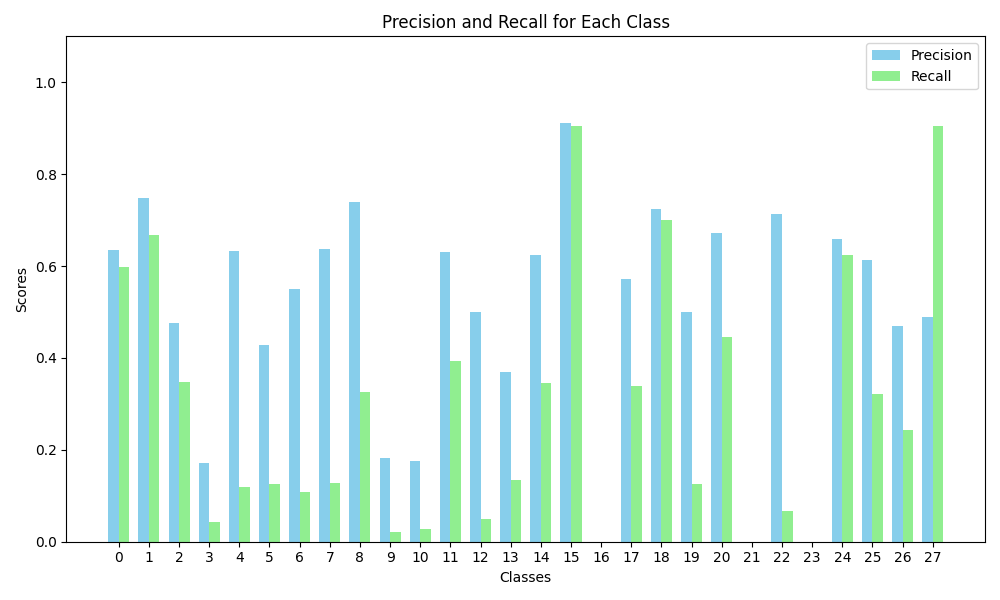
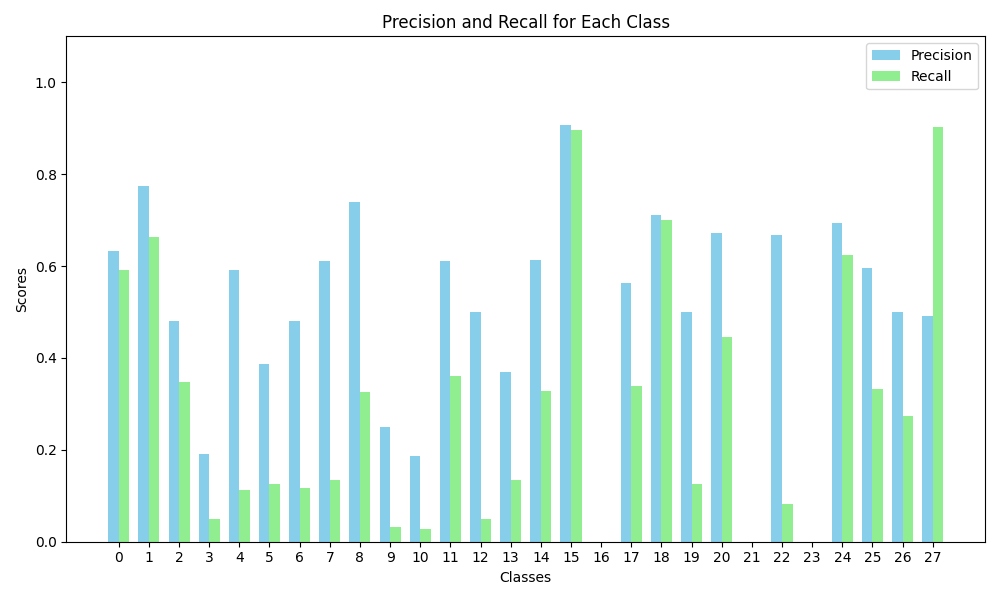
xgboost added

diff --git a/src/Baseline_model/XGBOOST.py b/src/Baseline_model/XGBOOST.py
@@ -1,0 +1,81 @@
+import re
+from sklearn.feature_extraction.text import CountVectorizer, TfidfVectorizer
+from xgboost import XGBClassifier
+from sklearn.metrics import classification_report
+
+
+def clean_text(text):
+    """
+    Clean the input text by applying several preprocessing steps.
+    """
+    # Lowercase
+    text = text.lower()
+    # Remove non-emotional punctuation (keep !, ?)
+    text = re.sub(r"[^\w\s!?':;.,]", '', text)
+    return text
+
+def preprocess_data(df_train, df_val, df_test, text_column="text", label_column="labels", vectorizer_type="tfidf"):
+    """
+    Preprocess text data using a vectorizer (CountVectorizer or TfidfVectorizer).
+    """
+    # Apply text cleaning to each dataset
+    df_train[text_column] = df_train[text_column].apply(clean_text)
+    df_val[text_column] = df_val[text_column].apply(clean_text)
+    df_test[text_column] = df_test[text_column].apply(clean_text)
+
+    # Initialize the vectorizer
+    if vectorizer_type == "count":
+        vectorizer = CountVectorizer(stop_words="english", max_features=700, min_df=4)
+    elif vectorizer_type == "tfidf":
+        vectorizer = TfidfVectorizer(stop_words="english")
+    else:
+        raise ValueError("Invalid vectorizer type. Choose 'count' or 'tfidf'.")
+
+    # Fit on the training text data and transform the splits
+    X_train = vectorizer.fit_transform(df_train[text_column])  # Learn vocabulary and transform train
+    X_val = vectorizer.transform(df_val[text_column])          # Transform validation data
+    X_test = vectorizer.transform(df_test[text_column])        # Transform test data
+
+    # Convert labels to a simple format (if needed)
+    y_train = df_train[label_column].apply(lambda x: x[0])  # Single label per row
+    y_val = df_val[label_column].apply(lambda x: x[0])
+    y_test = df_test[label_column].apply(lambda x: x[0])
+
+    return X_train, X_val, X_test, y_train, y_val, y_test, vectorizer
+
+# Train XGBoost Model
+def train_xgboost(X_train, y_train, X_val, y_val):
+    """
+    Train an XGBoost classifier and evaluate it on validation data.
+    """
+    model = XGBClassifier(use_label_encoder=False, eval_metric="mlogloss", random_state=42)
+    model.fit(X_train, y_train)
+
+    # Predict on validation set
+    y_val_pred = model.predict(X_val)
+
+    print("Validation Classification Report:")
+    print(classification_report(y_val, y_val_pred))
+
+    return model
+
+# Example Workflow
+def run_xgboost_pipeline(df_train, df_val, df_test):
+    """
+    Complete pipeline for training and evaluating an XGBoost model.
+    """
+    # Preprocess data using TF-IDF
+    X_train, X_val, X_test, y_train, y_val, y_test, vectorizer = preprocess_data(
+        df_train, df_val, df_test, text_column="text", label_column="labels", vectorizer_type="tfidf"
+    )
+
+    # Train and evaluate XGBoost
+    model = train_xgboost(X_train, y_train, X_val, y_val)
+
+    # Predict on test set
+    y_test_pred = model.predict(X_test)
+
+    print("Test Classification Report:")
+    print(classification_report(y_test, y_test_pred))
+
+    return model, vectorizer

diff --git a/src/Baseline_model/PrepareDatasetBM.py b/src/Baseline_model/PrepareDatasetBM.py
@@ -1,0 +1,43 @@
+import pandas as pd
+import matplotlib.pyplot as plt
+from XGBOOST import *
+import os
+import numpy as np
+import re
+
+
+splits = {'train': 'simplified/train-00000-of-00001.parquet',
+          'validation': 'simplified/validation-00000-of-00001.parquet',
+          'test': 'simplified/test-00000-of-00001.parquet'}
+df_train = pd.read_parquet("hf://datasets/google-research-datasets/go_emotions/" + splits["train"])
+df_val = pd.read_parquet("hf://datasets/google-research-datasets/go_emotions/" + splits["validation"])
+df_test = pd.read_parquet("hf://datasets/google-research-datasets/go_emotions/" + splits["test"])
+
+# Drop data points with more than one label
+df_train_simplified = df_train[df_train["labels"].apply(lambda x: len(x) == 1)]
+df_val_simplified = df_val[df_val["labels"].apply(lambda x: len(x) == 1)]
+df_test_simplified = df_test[df_test["labels"].apply(lambda x: len(x) == 1)]
+
+
+def downsample(data):
+    majority = data[data['labels'] == 27]
+    minority = data[data['labels'] != 27]
+
+    # Downsample majority class to match minority class size
+    majority_downsampled = majority.sample(n=int(len(majority)/6), random_state=42)
+
+    # Combine downsampled majority class with minority class
+    balanced_data = pd.concat([majority_downsampled, minority])
+
+    return balanced_data
+
+
+'''
+df_test_simplified = downsample(df_test_simplified)
+df_train_simplified = downsample(df_train_simplified)
+df_val_simplified = downsample(df_val_simplified)
+'''
+
+
+run_xgboost_pipeline(df_train_simplified,df_val_simplified,df_test_simplified)
+

diff --git a/src/Naive-Bayes/PrepareDatasetNB.py b/src/Naive-Bayes/PrepareDatasetNB.py
@@ -3,6 +3,7 @@ from sklearn.feature_extraction.text import CountVectorizer
 import matplotlib.pyplot as plt
 from NaiveBayes import *
 import os
+import re
 
 splits = {'train': 'simplified/train-00000-of-00001.parquet',
           'validation': 'simplified/validation-00000-of-00001.parquet',
@@ -37,12 +38,29 @@ df_val_simplified = downsample(df_val_simplified)
 '''
 
 
+def clean_text(text):
+    """
+    Clean the input text by applying several preprocessing steps.
+    """
+    # Lowercase
+    text = text.lower()
+    # Remove non-emotional punctuation (keep !, ?)
+    text = re.sub(r"[^\w\s!?':;.,]", '', text)
+    return text
 
 # Example preprocessing pipeline using CountVectorizer
 def preprocess_data(df_train, df_val, df_test, text_column="text", label_column="labels"):
     """
     Preprocess text data using Bag of Words representation with CountVectorizer.
     """
+
+
+    # Do the text cleaning
+    df_train[text_column] = df_train[text_column].apply(clean_text)
+    df_val[text_column] = df_val[text_column].apply(clean_text)
+    df_test[text_column] = df_test[text_column].apply(clean_text)
+
+
     # Initialize CountVectorizer
     vectorizer = CountVectorizer(stop_words="english",max_features=700, min_df=4)
 

diff --git a/src/Naive-Bayes/NaiveBayes.py b/src/Naive-Bayes/NaiveBayes.py
@@ -1,5 +1,6 @@
 import numpy as np
 
+
 class NaiveBayes:
     def __init__(self):
         """
@@ -111,4 +112,3 @@ class NaiveBayes:
             cls_recall = self.recall(y_true, y_pred, cls)
             metrics[cls] = {'precision': cls_precision, 'recall': cls_recall}
         return metrics
-
